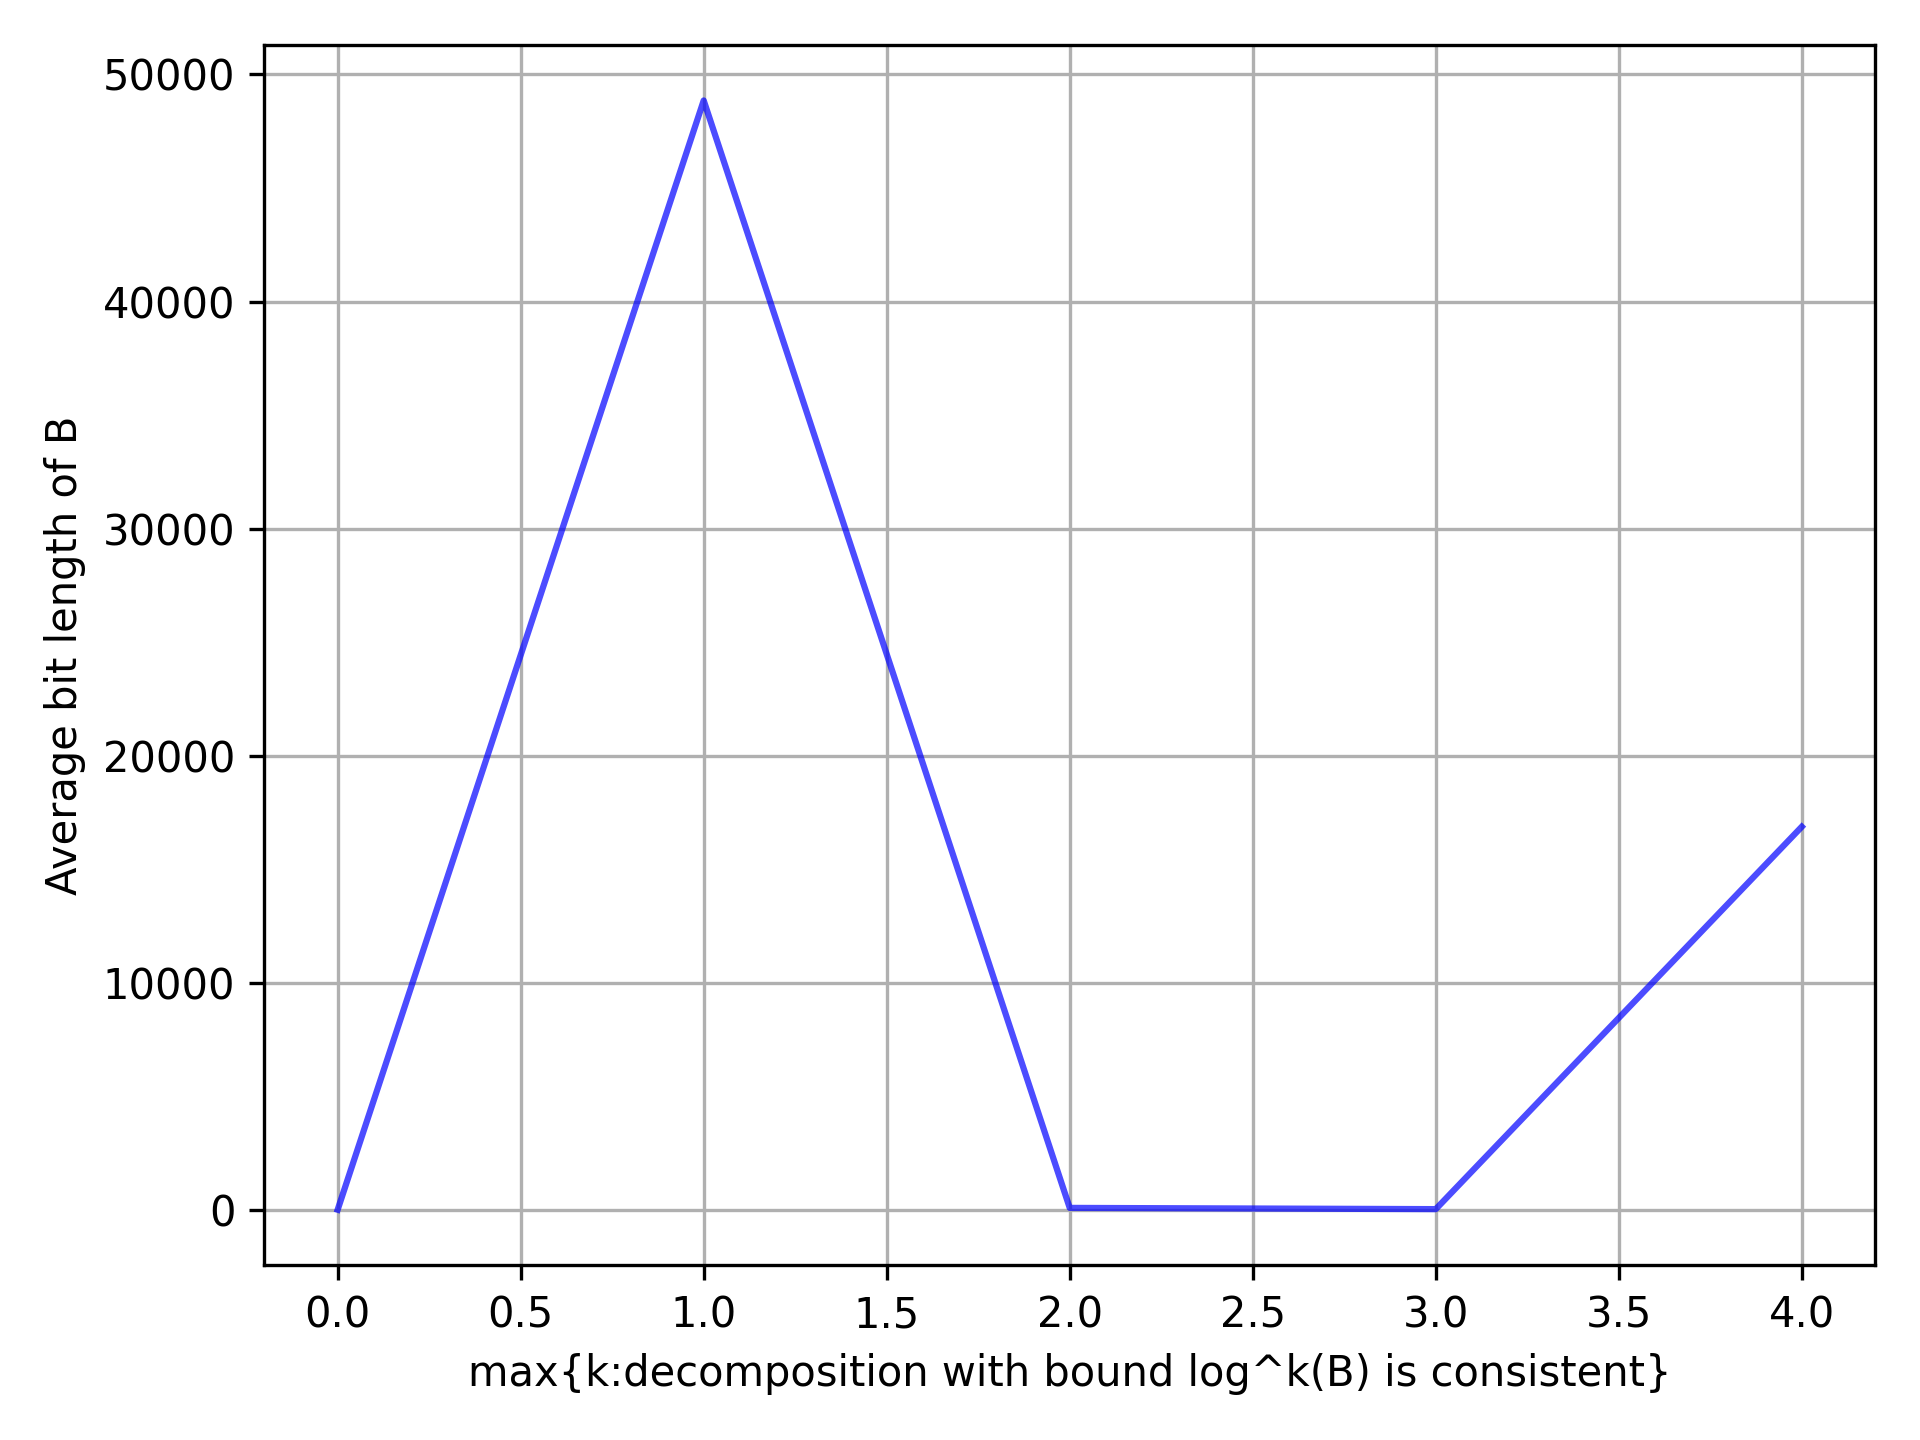
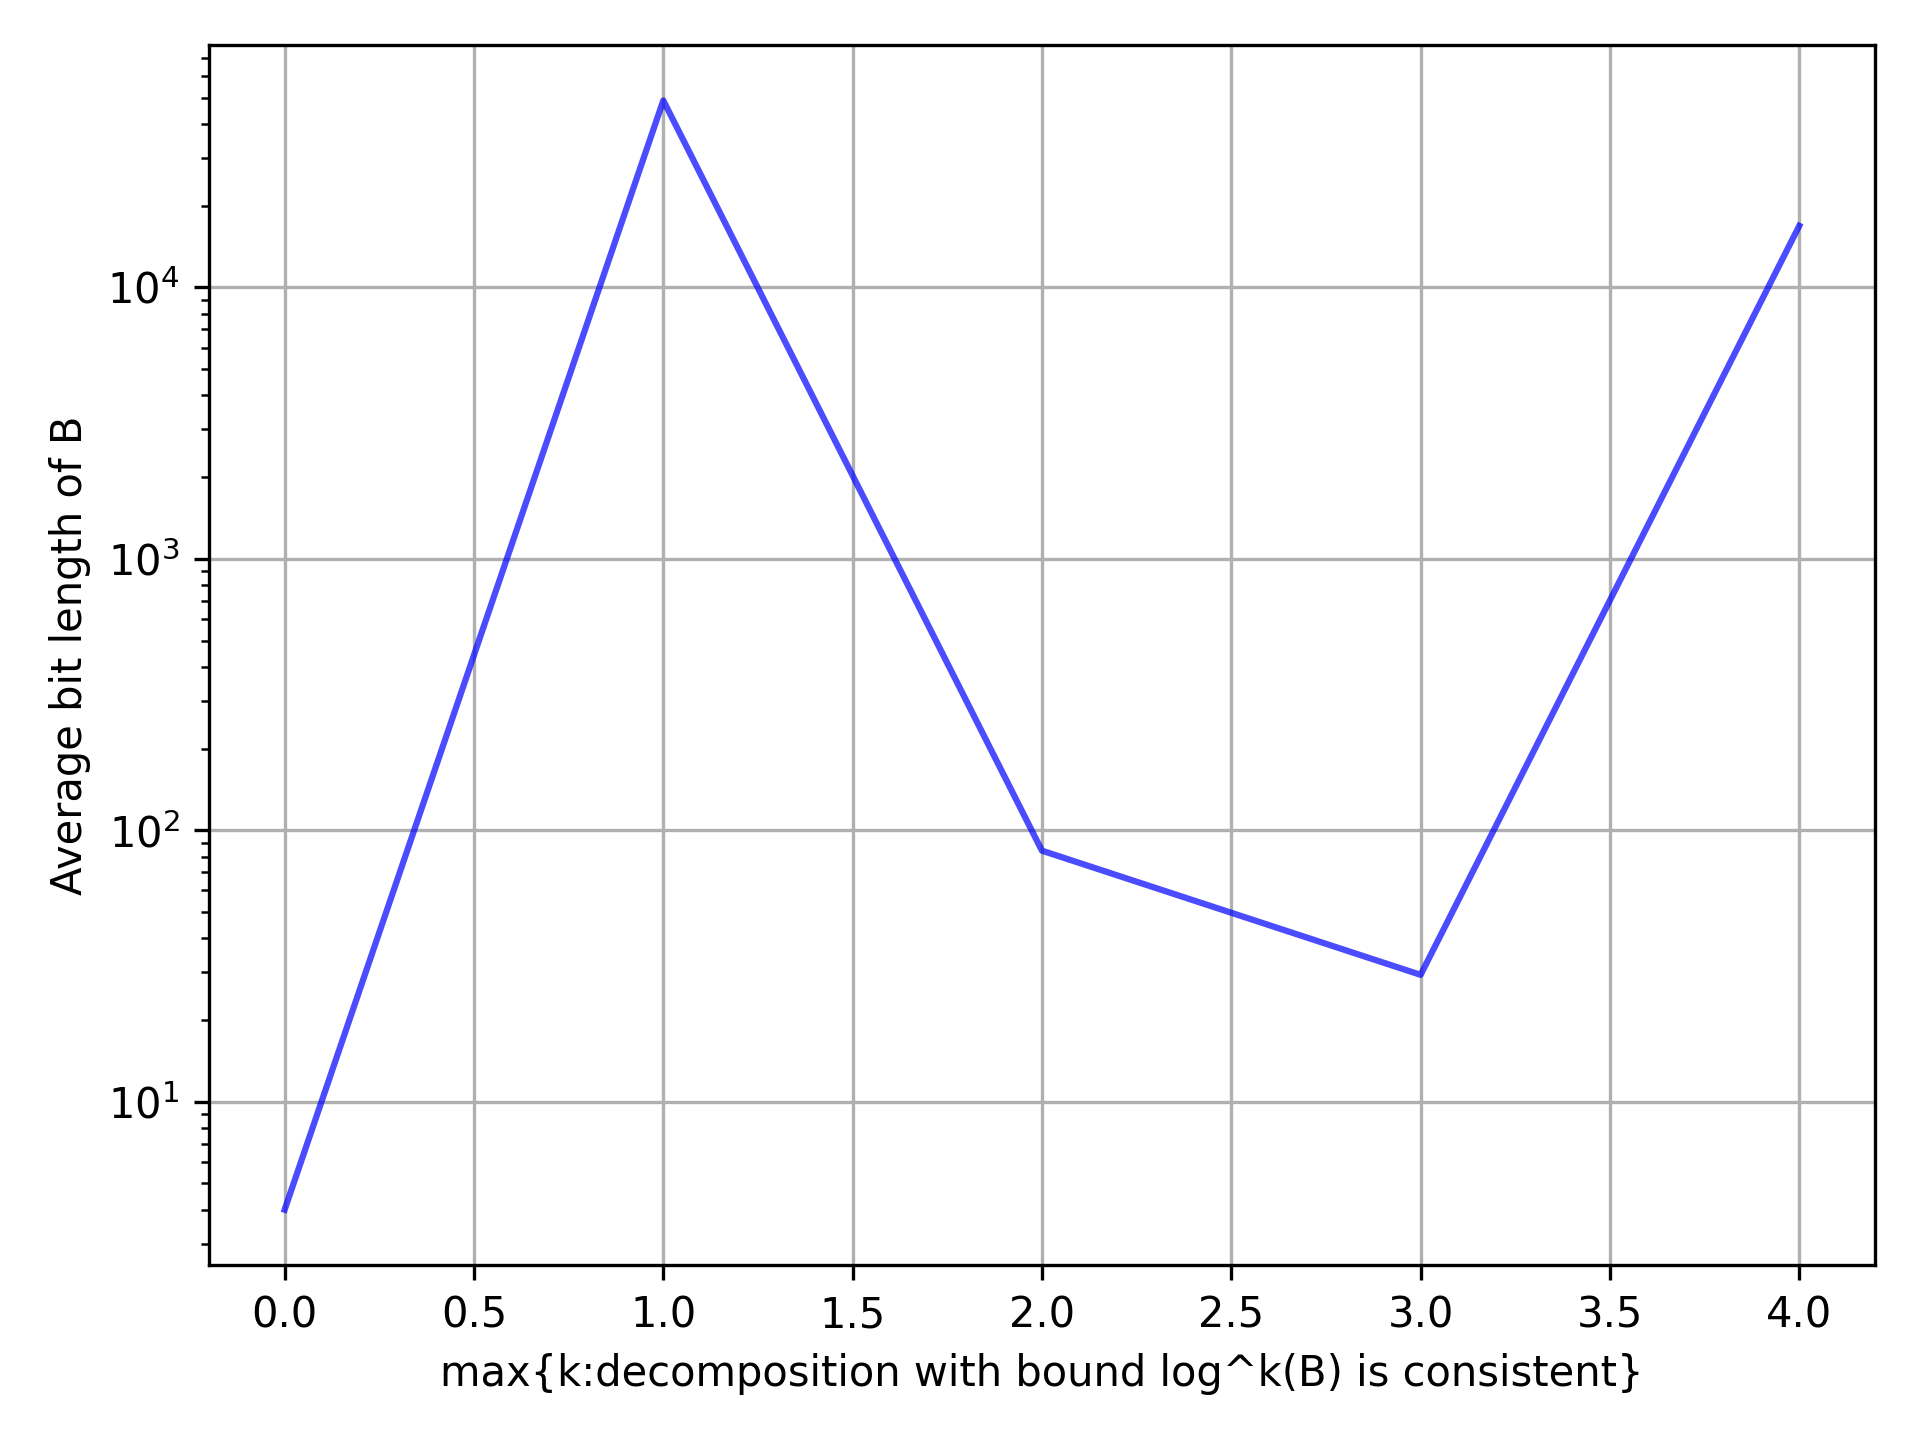
The last plot can be better understood if the y axis is plotted with log scale

diff --git a/src/benchmark_plot.py b/src/benchmark_plot.py
@@ -60,6 +60,8 @@ def benchmark_plot(iter_number: int):
         ax.set_xlabel("max{k:decomposition with bound log^k(B) is consistent}")
         ax.set_ylabel("Average bit length of B")
 
+        ax.set_yscale("log")
+
         save_as_img(fig, "bound_log_count_until_inc_r")
 
     div_by_1000_and_round = ticker.FuncFormatter(lambda x, pos: "{:.2f}".format(x / 1000.))
